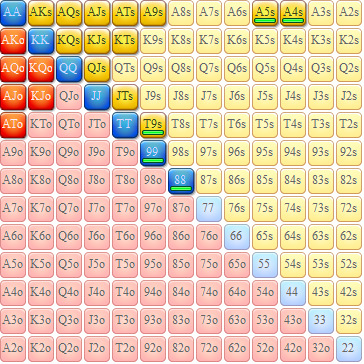
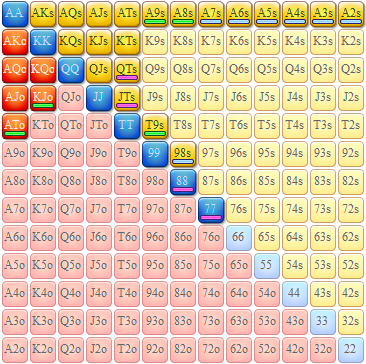
changes to 3bet vs fish

diff --git a/js/structure.js b/js/structure.js
@@ -288,7 +288,8 @@ const struct = {
       'vs 10% IP',
     ],
     '!bonus': [
-      ['3bet vs fish 20% RFI', 'Purple only IP vs passive fish (not on EP)'], 
+      // ['3bet vs fish 20% RFI', 'Purple only IP vs passive fish (not on EP)'], 
+      ['3bet vs fish', 'Green vs passive IP <br /> Gray vs passive with deep stack IP <br> Purple fold vs aggro OOP and vs EP'], 
       ['overcall on blinds', 'Overlimp on SB or overcall on BB with fish in pot <br> Purple: only overcall on BB'],
     ],
   },
